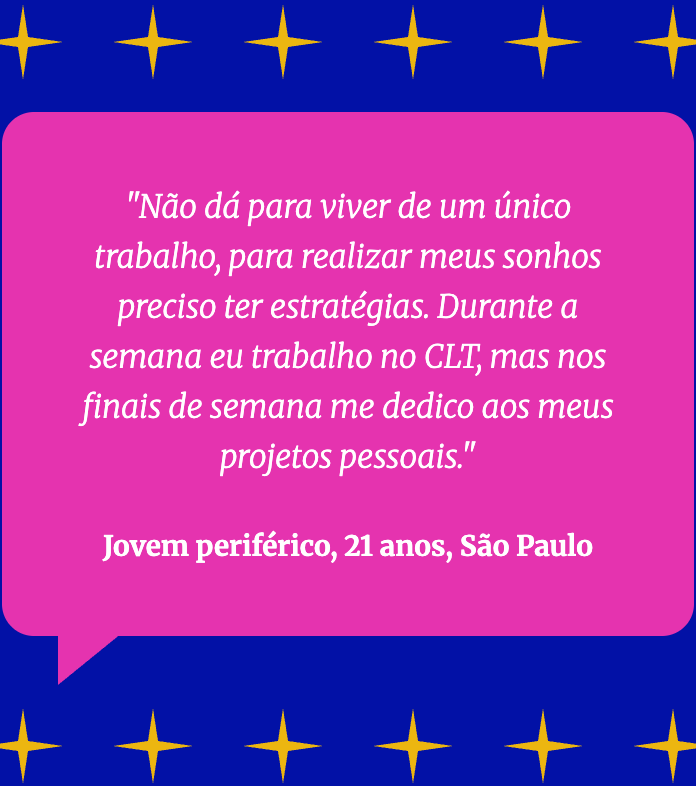
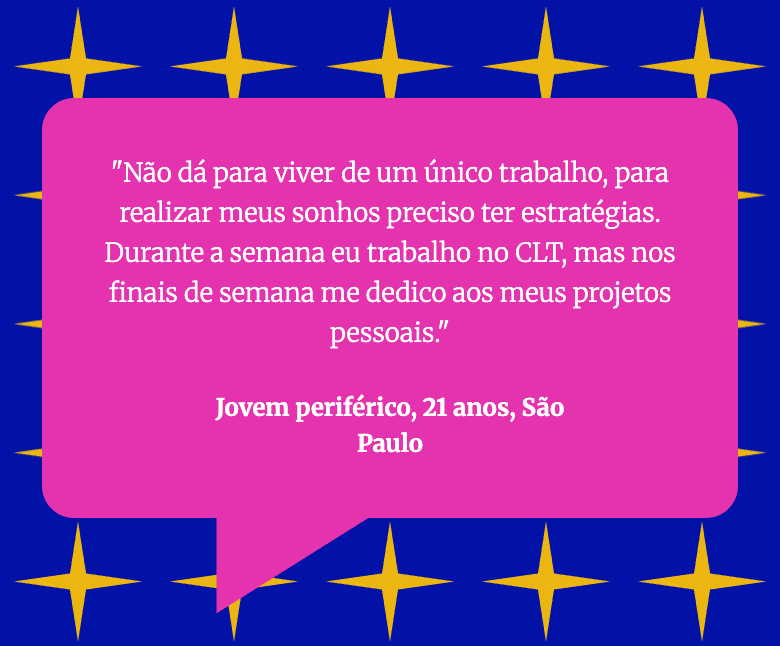
Match compact mobile testimonial reference

diff --git a/design.css b/design.css
@@ -1110,3 +1110,20 @@ tbody th { color: white; background: var(--pink); border-radius: 12px; font-weig
   .care-stage::after { mask-image: none; }
   .care-note { font-family: var(--body); font-weight: 700; }
 }
+
+/* Mobile testimonial composition from the final reference. */
+@media (max-width: 720px) {
+  .movements { padding-top: 18px; }
+  .quote-scene {
+    width: 100vw;
+    margin-left: calc(50% - 50vw);
+    padding: 48px 0 64px;
+    margin-bottom: 30px;
+    background: url('assets/star.svg') center top / 78px 65px round;
+  }
+  .quote-scene::before, .quote-scene::after { content: none; }
+  .quote-scene .quote { width: 89%; padding: 28px 25px; margin-inline: auto; }
+  .quote-scene blockquote { font-size: 13px; line-height: 20px; font-style: normal; }
+  .quote-scene figcaption { max-width: 180px; margin: 18px auto 0; font-size: 12px; line-height: 18px; }
+  .quote-scene .quote::after { left: 25%; bottom: -48px; width: 78px; height: 49px; }
+}
